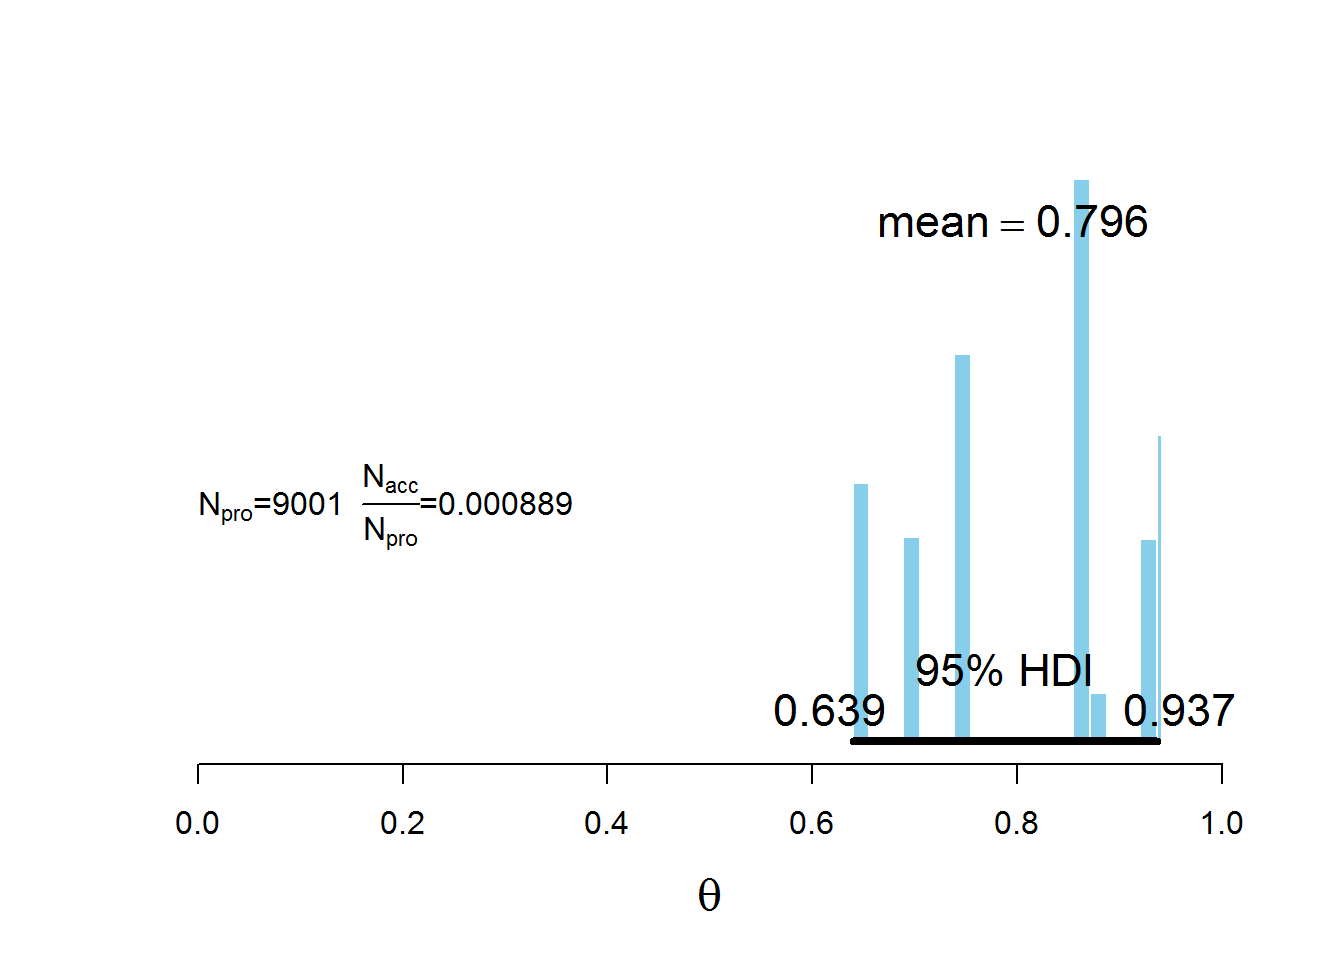
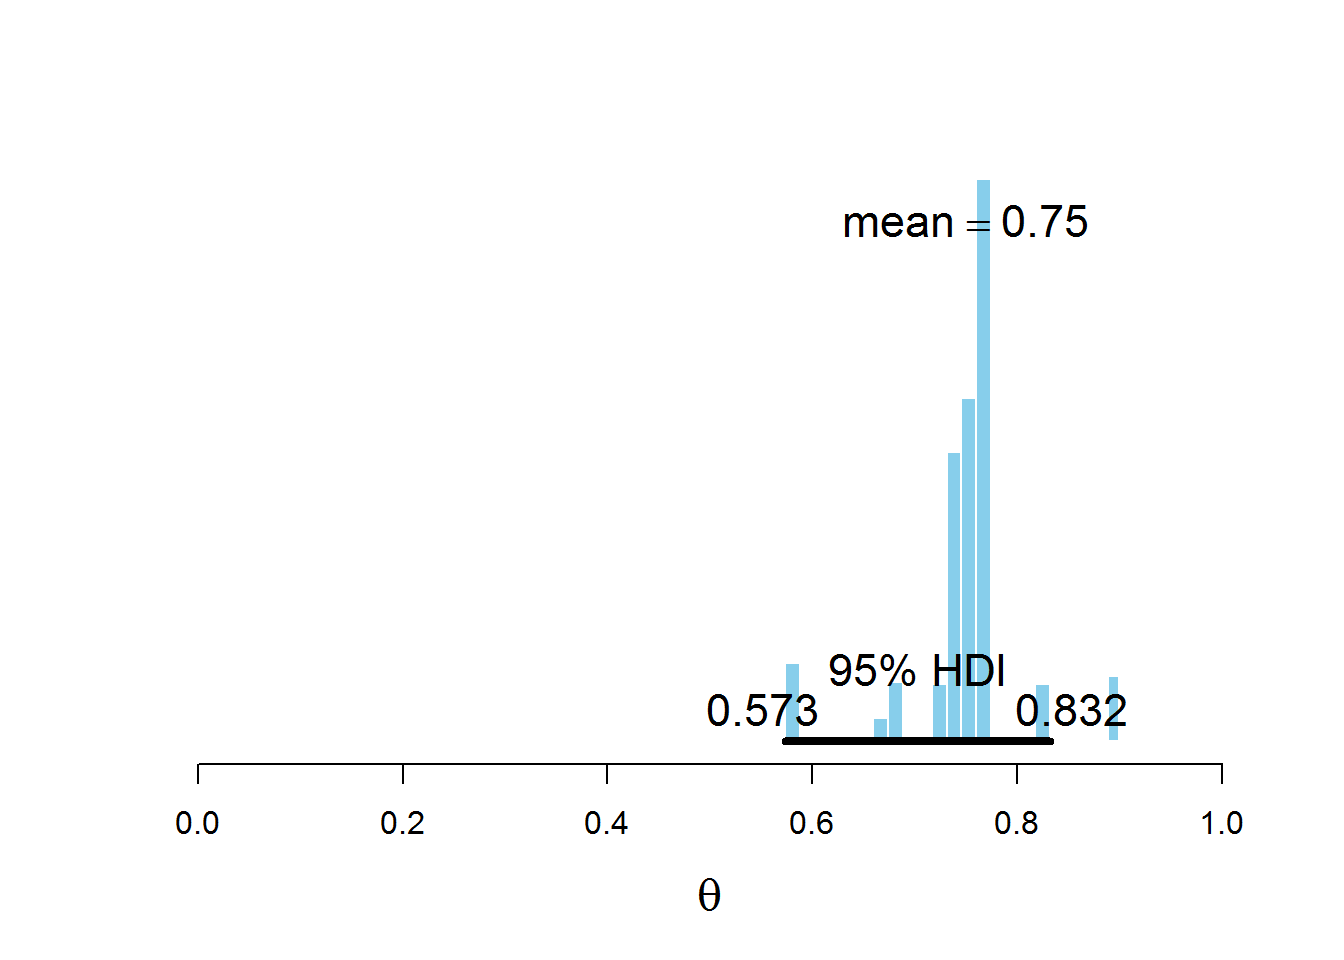
chapter 7 progress

diff --git a/chapter7-exercises.html b/chapter7-exercises.html
@@ -219,7 +219,31 @@ acceptedTraj &lt;-<span class="st"> </span>trajectory[(burnIn<span class="dv">+1
 <blockquote>
 <p>Which proposal distributino gave the mst accurate representation of the posterior? Which proposal distribution had the most rejected proposals? Which proposal distribution had the most rejected proposals?</p>
 </blockquote>
-<p>The proposal with <span class="math">\(SD = 0.1\)</span> gave the most accurate representation of the posterior. The number of rejected proposals for each were, <strong>2527</strong> when <span class="math">\(SD = 0.1\)</span>, <strong>65</strong> when <span class="math">\(SD = 0.001\)</span> and <strong>8992</strong> when <span class="math">\(SD = 100\)</span>.</p>
+<p>The proposal with <span class="math">\(SD = 0.1\)</span> gave the most accurate representation of the posterior. The number of rejected proposals for each were, <strong>2529</strong> when <span class="math">\(SD = 0.1\)</span>, <strong>54</strong> when <span class="math">\(SD = 0.001\)</span> and <strong>8992</strong> when <span class="math">\(SD = 100\)</span>.</p>
+</div>
+<div id="section-1" class="section level3">
+<h3>7.2</h3>
+<p>To understand the influence of the starting point of the random walk, and why the walk doesn’t necessarily go back to that region. Edit the homegrown Metropolis algorithm in <a href="https://github.com/durtal/dba-ed1/blob/master/code-data/BernMetropolisTemplate.R">BernMetropolisTemplate.R</a> for this exercise. Set <code>trajLength = 100</code> and set <code>burnIn = ceiling(0.001 * trajLength)</code>, finally set <code>trajectory[1] = 0.001</code>. Now run the script and save the resulting histogram.</p>
+<div class="row">
+<div class="col-sm-6">
+<p><img src="chapter7-exercises_files/figure-html/unnamed-chunk-7-1.png" title="" alt="" width="672" /></p>
+</div>
+<div class="col-sm-6">
+<p><img src="chapter7-exercises_files/figure-html/unnamed-chunk-8-1.png" title="" alt="" width="672" /></p>
+</div>
+</div>
+<blockquote>
+<p>How many jumps are proposed? How many steps are excluded as part of the burn-in portion? At what value does the random walk start?</p>
+</blockquote>
+<p>The histogram above plots the result of the random walk. There are 100 steps proposed (<code>trajLength = 100</code>), burn in portion was 1% (<code>burnIn = 0.01</code>) of 100, so just 1 step, and the walk started at 0.001 (<code>trajectory[1] = 0.001</code>).</p>
+<blockquote>
+<p>Why does the histogram above have so many points below 0.5? That is, why does the chain stay below 0.5 as long as it does?</p>
+</blockquote>
+<p>The initial value is 0.001, so the chain starts at the far left. The proposal distribution has a small SD of 0.1, so jumps are fairly small, meaning progress to values above 0.5 is slow.</p>
+<blockquote>
+<p>Why does the histogram have so few points below 0.5? That is why does the chain not go back below 0.5?</p>
+</blockquote>
+<p>The chain eventually stays to the right of 0.5 because the posterior probability values to the left of 0.5 is small. Plotting the trajectory instead</p>
 </div>
 </div>
 
